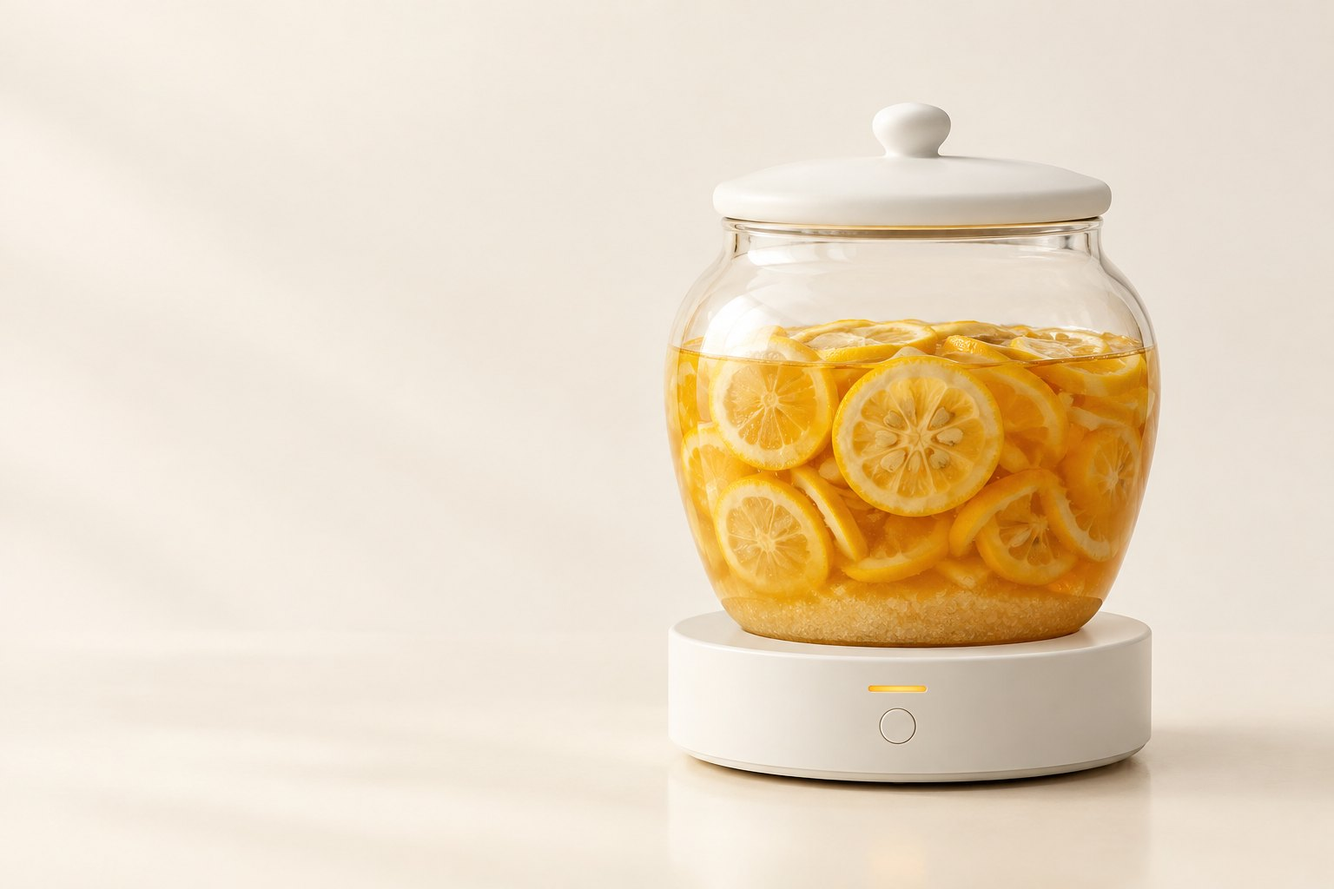
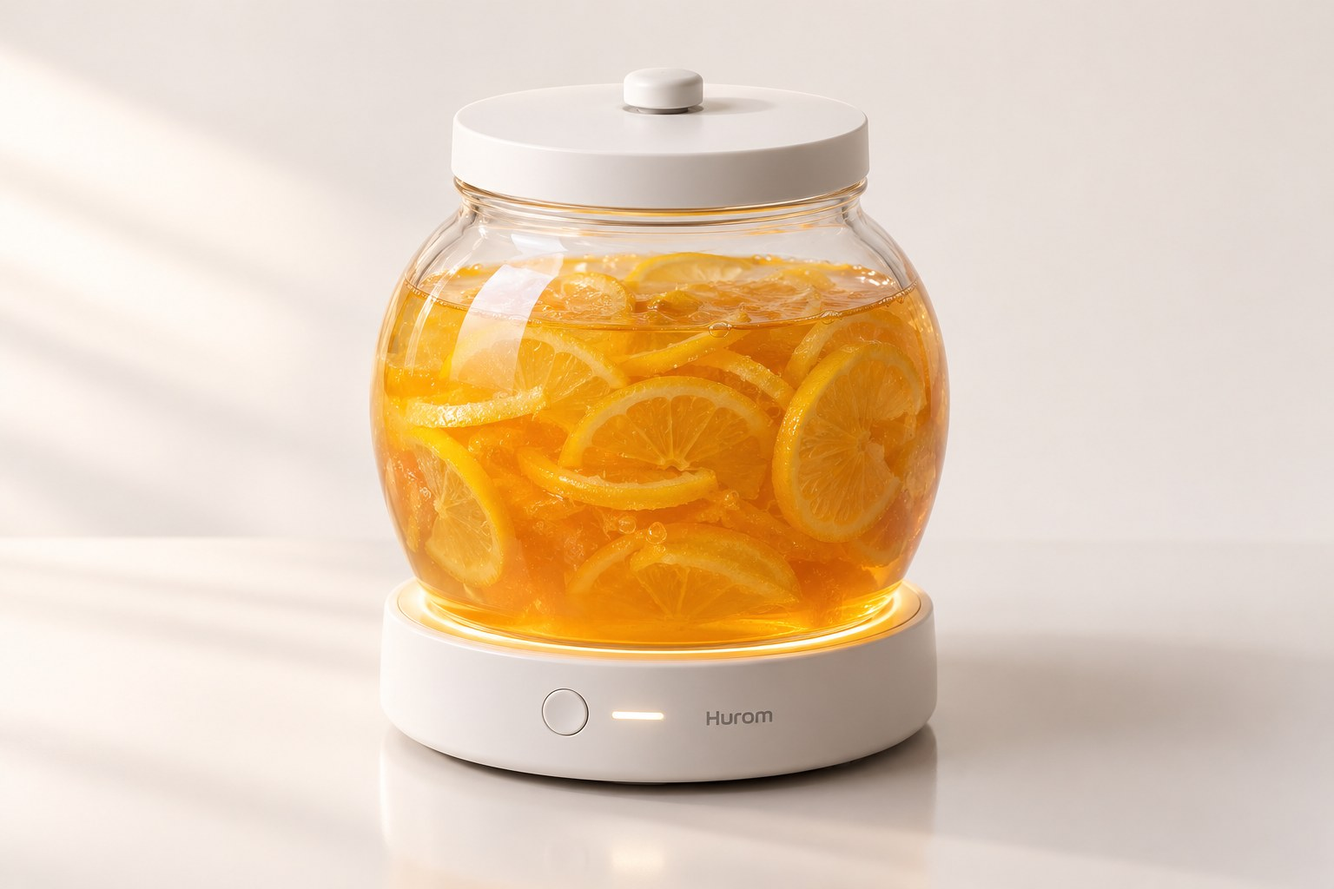
제품 이미지 프롬프트 페이지(prompts.html, 10컷 · 복사 버튼 · 점검표) · GPT 완성 이미지 3장(대표 · 쓰는 장면 · 라인업)으로 교체

diff --git a/prompts.html b/prompts.html
@@ -1,0 +1,165 @@
+<!doctype html><html lang="ko"><head><meta charset="utf-8"><meta name="viewport" content="width=device-width,initial-scale=1">
+<title>과일청 메이커 · 제품 이미지 프롬프트</title>
+<link rel="stylesheet" href="https://cdn.jsdelivr.net/gh/orioncactus/pretendard@v1.3.9/dist/web/static/pretendard.min.css">
+<style>
+:root{--bg:#f7f5f0;--card:#fff;--ink:#1c1b19;--sub:#6b6862;--line:#e6e2d9;--acc:#e8781a}
+*{box-sizing:border-box}body{margin:0;background:var(--bg);color:var(--ink);font-family:Pretendard,system-ui,sans-serif;-webkit-font-smoothing:antialiased}
+.wrap{max-width:1240px;margin:0 auto;padding:72px 32px 120px}
+.eyebrow{font-size:13px;font-weight:700;color:var(--acc);letter-spacing:.04em}
+h1{font-size:44px;line-height:1.2;margin:12px 0 16px;letter-spacing:-.02em}
+.lead{font-size:18px;color:var(--sub);line-height:1.6;max-width:760px;margin:0}
+.steps{display:grid;grid-template-columns:repeat(4,1fr);gap:16px;margin:40px 0 56px}
+.step{background:var(--card);border:1px solid var(--line);border-radius:16px;padding:20px}
+.step b{display:block;font-size:13px;color:var(--acc);margin-bottom:6px}.step p{margin:0;font-size:15px;line-height:1.5}
+h2{font-size:24px;margin:0 0 20px;letter-spacing:-.01em}
+.grid{display:grid;grid-template-columns:repeat(2,1fr);gap:24px}
+.card{background:var(--card);border:1px solid var(--line);border-radius:20px;overflow:hidden;display:flex;flex-direction:column;transition:opacity .5s,transform .5s,box-shadow .25s;opacity:0;transform:translateY(16px)}
+.card.in{opacity:1;transform:none}.card.in:hover{box-shadow:0 12px 32px rgba(0,0,0,.08);transform:translateY(-3px)}
+.thumb{position:relative;aspect-ratio:3/2;background:#efebe3}.thumb img{width:100%;height:100%;object-fit:cover;display:block}
+.empty{height:100%;display:flex;align-items:center;justify-content:center;color:#a39f96;font-size:14px;background:repeating-linear-gradient(135deg,#efebe3 0 12px,#ebe6dc 12px 24px)}
+.badge{position:absolute;left:14px;top:14px;background:rgba(255,255,255,.92);border:1px solid var(--line);border-radius:999px;font-size:12px;font-weight:700;padding:5px 10px}
+.body{padding:22px 24px 24px;display:flex;flex-direction:column;gap:10px;flex:1}
+.meta{display:flex;gap:8px;flex-wrap:wrap;font-size:12px;color:var(--sub)}.meta span{border:1px solid var(--line);border-radius:999px;padding:3px 9px}.meta .no{background:var(--ink);color:#fff;border-color:var(--ink);font-weight:700}
+h3{margin:4px 0 0;font-size:20px}.ko{margin:0;font-size:14px;line-height:1.6;color:var(--sub)}
+details{font-size:13px}summary{cursor:pointer;color:var(--ink);font-weight:600}
+pre{white-space:pre-wrap;word-break:break-word;background:#faf8f4;border:1px solid var(--line);border-radius:12px;padding:14px;font:12.5px/1.6 ui-monospace,Consolas,monospace}
+.copy{margin-top:auto;align-self:flex-start;border:0;background:var(--ink);color:#fff;font:600 14px Pretendard,sans-serif;padding:11px 18px;border-radius:12px;cursor:pointer;transition:background .2s}
+.copy:hover{background:#000}.copy.done{background:#2f8f5b}
+.box{background:var(--card);border:1px solid var(--line);border-radius:20px;padding:28px;margin-top:24px}
+.box ul{margin:0;padding-left:20px;line-height:1.8;font-size:15px}
+.two{display:grid;grid-template-columns:1fr 1fr;gap:24px;margin-top:32px}.two .box{margin-top:0}
+@media(max-width:900px){.grid,.two{grid-template-columns:1fr}.steps{grid-template-columns:1fr 1fr}h1{font-size:32px}.wrap{padding:48px 18px 80px}}
+</style></head><body><div class="wrap">
+<div class="eyebrow">HUROM · 과일청 메이커</div>
+<h1>제품 이미지 프롬프트 10컷</h1>
+<p class="lead">GPT 이미지에 그대로 붙여 넣는 완성 프롬프트입니다. 모든 컷에 같은 제품 묘사가 들어 있어서 여러 장을 만들어도 통 모양 · 받침 · 빛 링이 똑같이 나옵니다.</p>
+<div class="steps">
+<div class="step"><b>1</b><p>컷을 고르고 「프롬프트 복사」</p></div>
+<div class="step"><b>2</b><p>GPT 이미지에 붙여 넣기(비율은 프롬프트에 들어 있음)</p></div>
+<div class="step"><b>3</b><p>아래 「확인할 것」으로 모양 점검, 틀리면 한 줄 덧붙여 다시</p></div>
+<div class="step"><b>4</b><p>방에 올리면 피그마 · 페이지에 바로 넣음</p></div>
+</div>
+<h2>컷 목록</h2>
+<div class="grid"><article class="card" id="hero">
+<div class="thumb"><img src="img/real-hero.jpg" alt="대표 컷 · 유자청 지금 이미지" loading="lazy"><span class="badge">완성 · GPT</span></div>
+<div class="body"><div class="meta"><span class="no">01</span><span>비율 3:2</span><span>기획서 첫 화면</span></div>
+<h3>대표 컷 · 유자청</h3><p class="ko">스튜디오 대표 컷. 유자 슬라이스와 설탕이 든 주황빛 유자청, 빛 링은 따뜻한 주황.</p>
+<details><summary>전체 프롬프트 보기</summary><pre>A countertop fruit-syrup maker. A clear borosilicate glass jar shaped like a small Korean onggi pot — rounded belly 16cm wide, narrower mouth 12cm, 16cm tall, 2-liter capacity, smooth thick glass, no holes, no handles, no tap. White matte flat lid with a small round valve knob in the center. The jar sits on a low round base, 19cm diameter and 5cm tall, white matte finish, soft rounded edges. A thin glowing light ring between the jar and the base lights the syrup from below. On the base front: one small round button and one short horizontal light line, plus a tiny grey &quot;Hurom&quot; logo. No wood, no screens, no visible cables. Premium Korean home appliance, minimal. Photorealistic product photography, accurate glass refraction and caustics, soft natural shadows.
+
+Scene: Studio hero shot. The jar is filled with yuzu syrup: thin yuzu slices and sugar in golden-orange syrup. The light ring glows warm amber. Clean warm-white seamless background, product centered, slight 3/4 angle from above, soft daylight from the left, subtle reflection on a white surface.
+
+Aspect ratio 3:2. Avoid: cylinder jar, straight-sided jar, tap or spout, handle, wooden parts, LCD screen, touch panel, many buttons, visible power cord, cartoon, 3D render look, plastic jar, text overlay, watermark, extra logos.</pre></details>
+<button class="copy" data-k="hero">프롬프트 복사</button></div></article>
+<article class="card" id="use">
+<div class="thumb"><img src="img/real-use.jpg" alt="쓰는 장면 · 매실 담그는 날 지금 이미지" loading="lazy"><span class="badge">완성 · GPT</span></div>
+<div class="body"><div class="meta"><span class="no">02</span><span>비율 3:2</span><span>「처음 한 번 써 보기」 칸</span></div>
+<h3>쓰는 장면 · 매실 담그는 날</h3><p class="ko">아침 아파트 주방. 매실이 반쯤 담긴 통에 손이 설탕을 붓는 장면(얼굴 없음).</p>
+<details><summary>전체 프롬프트 보기</summary><pre>A countertop fruit-syrup maker. A clear borosilicate glass jar shaped like a small Korean onggi pot — rounded belly 16cm wide, narrower mouth 12cm, 16cm tall, 2-liter capacity, smooth thick glass, no holes, no handles, no tap. White matte flat lid with a small round valve knob in the center. The jar sits on a low round base, 19cm diameter and 5cm tall, white matte finish, soft rounded edges. A thin glowing light ring between the jar and the base lights the syrup from below. On the base front: one small round button and one short horizontal light line, plus a tiny grey &quot;Hurom&quot; logo. No wood, no screens, no visible cables. Premium Korean home appliance, minimal. Photorealistic product photography, accurate glass refraction and caustics, soft natural shadows.
+
+Scene: Lifestyle scene on a bright Korean apartment kitchen counter in the morning. A woman&#x27;s hands (face not shown) pour white sugar into the jar, which is half full of green maesil (Korean green plums). The light ring glows soft orange. Beside it: a bowl of maesil, a cutting board, a glass of water. Natural window light, shallow depth of field, calm and warm mood.
+
+Aspect ratio 3:2. Avoid: cylinder jar, straight-sided jar, tap or spout, handle, wooden parts, LCD screen, touch panel, many buttons, visible power cord, cartoon, 3D render look, plastic jar, text overlay, watermark, extra logos.</pre></details>
+<button class="copy" data-k="use">프롬프트 복사</button></div></article>
+<article class="card" id="lineup">
+<div class="thumb"><img src="img/real-lineup.jpg" alt="라인업 · 청 4색 지금 이미지" loading="lazy"><span class="badge">완성 · GPT</span></div>
+<div class="body"><div class="meta"><span class="no">03</span><span>비율 16:9</span><span>색 · 재질 칸</span></div>
+<h3>라인업 · 청 4색</h3><p class="ko">같은 제품 4대를 나란히: 유자 · 매실 · 오미자 · 딸기. 빛 링 색을 청 색에 맞춤. 항아리 곡선으로 다시 나온 판입니다.</p>
+<details><summary>전체 프롬프트 보기</summary><pre>A countertop fruit-syrup maker. A clear borosilicate glass jar shaped like a small Korean onggi pot — rounded belly 16cm wide, narrower mouth 12cm, 16cm tall, 2-liter capacity, smooth thick glass, no holes, no handles, no tap. White matte flat lid with a small round valve knob in the center. The jar sits on a low round base, 19cm diameter and 5cm tall, white matte finish, soft rounded edges. A thin glowing light ring between the jar and the base lights the syrup from below. On the base front: one small round button and one short horizontal light line, plus a tiny grey &quot;Hurom&quot; logo. No wood, no screens, no visible cables. Premium Korean home appliance, minimal. Photorealistic product photography, accurate glass refraction and caustics, soft natural shadows.
+
+Scene: Four identical units in a row on a long white counter. Every jar has the same rounded onggi belly — not a straight cylinder. From left: yuzu syrup (golden orange), maesil syrup (yellow-green), omija syrup (deep red), strawberry syrup (pink-red). Each light ring glows the same color as its syrup. Front view, evenly spaced, soft studio light, warm-white background.
+
+Aspect ratio 16:9. Avoid: cylinder jar, straight-sided jar, tap or spout, handle, wooden parts, LCD screen, touch panel, many buttons, visible power cord, cartoon, 3D render look, plastic jar, text overlay, watermark, extra logos.</pre></details>
+<button class="copy" data-k="lineup">프롬프트 복사</button></div></article>
+<article class="card" id="night">
+<div class="thumb"><div class="empty">새로 만들 컷</div><span class="badge">새 컷</span></div>
+<div class="body"><div class="meta"><span class="no">04</span><span>비율 3:2</span><span>「쓰는 장면」 둘째 컷</span></div>
+<h3>밤 · 식혀 두기</h3><p class="ko">불 끈 저녁 주방. 오미자청이 아래 빛 링으로 붉게 빛나는 컷.</p>
+<details><summary>전체 프롬프트 보기</summary><pre>A countertop fruit-syrup maker. A clear borosilicate glass jar shaped like a small Korean onggi pot — rounded belly 16cm wide, narrower mouth 12cm, 16cm tall, 2-liter capacity, smooth thick glass, no holes, no handles, no tap. White matte flat lid with a small round valve knob in the center. The jar sits on a low round base, 19cm diameter and 5cm tall, white matte finish, soft rounded edges. A thin glowing light ring between the jar and the base lights the syrup from below. On the base front: one small round button and one short horizontal light line, plus a tiny grey &quot;Hurom&quot; logo. No wood, no screens, no visible cables. Premium Korean home appliance, minimal. Photorealistic product photography, accurate glass refraction and caustics, soft natural shadows.
+
+Scene: Evening kitchen with lights dimmed. The jar of omija syrup glows deep red from the light ring below, casting soft red light on the white counter. Calm premium mood, the product is the main light source besides a faint window glow.
+
+Aspect ratio 3:2. Avoid: cylinder jar, straight-sided jar, tap or spout, handle, wooden parts, LCD screen, touch panel, many buttons, visible power cord, cartoon, 3D render look, plastic jar, text overlay, watermark, extra logos.</pre></details>
+<button class="copy" data-k="night">프롬프트 복사</button></div></article>
+<article class="card" id="sugar">
+<div class="thumb"><div class="empty">새로 만들 컷</div><span class="badge">새 컷</span></div>
+<div class="body"><div class="meta"><span class="no">05</span><span>비율 4:5</span><span>「왜 이 기계가 필요한가」 칸</span></div>
+<h3>설탕 녹는 순간 · 근접</h3><p class="ko">통 바닥 근접. 젓개 주위로 안 녹은 설탕이 소용돌이치는 순간 — 「저어 준다」를 보여 주는 컷.</p>
+<details><summary>전체 프롬프트 보기</summary><pre>A countertop fruit-syrup maker. A clear borosilicate glass jar shaped like a small Korean onggi pot — rounded belly 16cm wide, narrower mouth 12cm, 16cm tall, 2-liter capacity, smooth thick glass, no holes, no handles, no tap. White matte flat lid with a small round valve knob in the center. The jar sits on a low round base, 19cm diameter and 5cm tall, white matte finish, soft rounded edges. A thin glowing light ring between the jar and the base lights the syrup from below. On the base front: one small round button and one short horizontal light line, plus a tiny grey &quot;Hurom&quot; logo. No wood, no screens, no visible cables. Premium Korean home appliance, minimal. Photorealistic product photography, accurate glass refraction and caustics, soft natural shadows.
+
+Scene: Macro close-up through the glass at the bottom of the jar. Undissolved white sugar crystals swirl slowly in golden syrup around a small white three-blade stirrer at the center of the glass bottom. The amber light ring glows from below. Fine sugar grains and tiny bubbles are sharp, background softly blurred.
+
+Aspect ratio 4:5. Avoid: cylinder jar, straight-sided jar, tap or spout, handle, wooden parts, LCD screen, touch panel, many buttons, visible power cord, cartoon, 3D render look, plastic jar, text overlay, watermark, extra logos.</pre></details>
+<button class="copy" data-k="sugar">프롬프트 복사</button></div></article>
+<article class="card" id="pour">
+<div class="thumb"><div class="empty">새로 만들 컷</div><span class="badge">새 컷</span></div>
+<div class="body"><div class="meta"><span class="no">06</span><span>비율 3:2</span><span>마지막 칸 · 고객이 얻는 것</span></div>
+<h3>완성 · 유자차 한 잔</h3><p class="ko">완성된 유자청을 떠서 유자차를 만드는 겨울 오후. 빛 링은 흰색(완료).</p>
+<details><summary>전체 프롬프트 보기</summary><pre>A countertop fruit-syrup maker. A clear borosilicate glass jar shaped like a small Korean onggi pot — rounded belly 16cm wide, narrower mouth 12cm, 16cm tall, 2-liter capacity, smooth thick glass, no holes, no handles, no tap. White matte flat lid with a small round valve knob in the center. The jar sits on a low round base, 19cm diameter and 5cm tall, white matte finish, soft rounded edges. A thin glowing light ring between the jar and the base lights the syrup from below. On the base front: one small round button and one short horizontal light line, plus a tiny grey &quot;Hurom&quot; logo. No wood, no screens, no visible cables. Premium Korean home appliance, minimal. Photorealistic product photography, accurate glass refraction and caustics, soft natural shadows.
+
+Scene: The finished yuzu syrup is spooned from the open jar into a clear glass mug of hot water, making yuzu tea. Lid resting beside the jar. Cozy winter afternoon on a light kitchen table, steam rising, warm sunlight. The light ring glows soft white (done).
+
+Aspect ratio 3:2. Avoid: cylinder jar, straight-sided jar, tap or spout, handle, wooden parts, LCD screen, touch panel, many buttons, visible power cord, cartoon, 3D render look, plastic jar, text overlay, watermark, extra logos.</pre></details>
+<button class="copy" data-k="pour">프롬프트 복사</button></div></article>
+<article class="card" id="lid">
+<div class="thumb"><div class="empty">새로 만들 컷</div><span class="badge">새 컷</span></div>
+<div class="body"><div class="meta"><span class="no">07</span><span>비율 1:1</span><span>구조 칸 · 가스 빼기</span></div>
+<h3>뚜껑 밸브 · 디테일</h3><p class="ko">뚜껑 가운데 한 방향 가스 밸브와 실리콘 패킹 근접.</p>
+<details><summary>전체 프롬프트 보기</summary><pre>A countertop fruit-syrup maker. A clear borosilicate glass jar shaped like a small Korean onggi pot — rounded belly 16cm wide, narrower mouth 12cm, 16cm tall, 2-liter capacity, smooth thick glass, no holes, no handles, no tap. White matte flat lid with a small round valve knob in the center. The jar sits on a low round base, 19cm diameter and 5cm tall, white matte finish, soft rounded edges. A thin glowing light ring between the jar and the base lights the syrup from below. On the base front: one small round button and one short horizontal light line, plus a tiny grey &quot;Hurom&quot; logo. No wood, no screens, no visible cables. Premium Korean home appliance, minimal. Photorealistic product photography, accurate glass refraction and caustics, soft natural shadows.
+
+Scene: Detail close-up of the white matte lid from a high angle: the small round one-way valve knob in the center and the food-grade silicone gasket visible at the lid edge. Glass rim of the jar and golden syrup slightly visible below. Soft studio light, minimal white background.
+
+Aspect ratio 1:1. Avoid: cylinder jar, straight-sided jar, tap or spout, handle, wooden parts, LCD screen, touch panel, many buttons, visible power cord, cartoon, 3D render look, plastic jar, text overlay, watermark, extra logos.</pre></details>
+<button class="copy" data-k="lid">프롬프트 복사</button></div></article>
+<article class="card" id="base">
+<div class="thumb"><div class="empty">새로 만들 컷</div><span class="badge">새 컷</span></div>
+<div class="body"><div class="meta"><span class="no">08</span><span>비율 16:9</span><span>조작 칸</span></div>
+<h3>받침 앞면 · 버튼과 빛 줄</h3><p class="ko">받침 앞 버튼 1개 · 빛 줄 · 로고 근접. 「버튼 하나로 끝」을 보여 주는 컷.</p>
+<details><summary>전체 프롬프트 보기</summary><pre>A countertop fruit-syrup maker. A clear borosilicate glass jar shaped like a small Korean onggi pot — rounded belly 16cm wide, narrower mouth 12cm, 16cm tall, 2-liter capacity, smooth thick glass, no holes, no handles, no tap. White matte flat lid with a small round valve knob in the center. The jar sits on a low round base, 19cm diameter and 5cm tall, white matte finish, soft rounded edges. A thin glowing light ring between the jar and the base lights the syrup from below. On the base front: one small round button and one short horizontal light line, plus a tiny grey &quot;Hurom&quot; logo. No wood, no screens, no visible cables. Premium Korean home appliance, minimal. Photorealistic product photography, accurate glass refraction and caustics, soft natural shadows.
+
+Scene: Low-angle close-up of the white matte base front: one small round button, one short horizontal light line glowing orange, and a tiny grey Hurom logo. The bottom of the glass jar with golden syrup and the glowing light ring above it. Shallow depth of field, clean white counter.
+
+Aspect ratio 16:9. Avoid: cylinder jar, straight-sided jar, tap or spout, handle, wooden parts, LCD screen, touch panel, many buttons, visible power cord, cartoon, 3D render look, plastic jar, text overlay, watermark, extra logos.</pre></details>
+<button class="copy" data-k="base">프롬프트 복사</button></div></article>
+<article class="card" id="parts">
+<div class="thumb"><div class="empty">새로 만들 컷</div><span class="badge">새 컷</span></div>
+<div class="body"><div class="meta"><span class="no">09</span><span>비율 3:2</span><span>「씻는 것은 셋」 칸</span></div>
+<h3>씻는 부품 셋</h3><p class="ko">갓 씻은 유리 통 · 뚜껑 · 젓개 셋을 위에서 본 컷. 받침은 빠짐.</p>
+<details><summary>전체 프롬프트 보기</summary><pre>A countertop fruit-syrup maker. A clear borosilicate glass jar shaped like a small Korean onggi pot — rounded belly 16cm wide, narrower mouth 12cm, 16cm tall, 2-liter capacity, smooth thick glass, no holes, no handles, no tap. White matte flat lid with a small round valve knob in the center. The jar sits on a low round base, 19cm diameter and 5cm tall, white matte finish, soft rounded edges. A thin glowing light ring between the jar and the base lights the syrup from below. On the base front: one small round button and one short horizontal light line, plus a tiny grey &quot;Hurom&quot; logo. No wood, no screens, no visible cables. Premium Korean home appliance, minimal. Photorealistic product photography, accurate glass refraction and caustics, soft natural shadows.
+
+Scene: Flat lay on a light grey stone counter, top-down view: the empty glass onggi jar lying on its side, the white lid, and the small white three-blade stirrer, all freshly washed with water droplets, next to a dish rack and a sponge. The white base is not in the picture. Clean, bright, organized.
+
+Aspect ratio 3:2. Avoid: cylinder jar, straight-sided jar, tap or spout, handle, wooden parts, LCD screen, touch panel, many buttons, visible power cord, cartoon, 3D render look, plastic jar, text overlay, watermark, extra logos.</pre></details>
+<button class="copy" data-k="parts">프롬프트 복사</button></div></article>
+<article class="card" id="cutaway">
+<div class="thumb"><div class="empty">새로 만들 컷</div><span class="badge">새 컷</span></div>
+<div class="body"><div class="meta"><span class="no">10</span><span>비율 3:2</span><span>구조 칸 · 기술 설명</span></div>
+<h3>속 구조 · 반 잘라 보기</h3><p class="ko">제품을 세로로 반 잘라 속을 보여 주는 컷: 유리 핀 · 젓개 · 자석 원판 · 모터 · 알루미늄 컵 · 펠티어 · 방열판 · 팬 · 보드. 글자 없이.</p>
+<details><summary>전체 프롬프트 보기</summary><pre>A countertop fruit-syrup maker. A clear borosilicate glass jar shaped like a small Korean onggi pot — rounded belly 16cm wide, narrower mouth 12cm, 16cm tall, 2-liter capacity, smooth thick glass, no holes, no handles, no tap. White matte flat lid with a small round valve knob in the center. The jar sits on a low round base, 19cm diameter and 5cm tall, white matte finish, soft rounded edges. A thin glowing light ring between the jar and the base lights the syrup from below. On the base front: one small round button and one short horizontal light line, plus a tiny grey &quot;Hurom&quot; logo. No wood, no screens, no visible cables. Premium Korean home appliance, minimal. Photorealistic product photography, accurate glass refraction and caustics, soft natural shadows.
+
+Scene: Technical cutaway visualization, photorealistic style: the product cut in half vertically on a white background. Show the glass jar with syrup, the small stirrer on a glass pin at the bottom center, under the glass a magnetic drive disc with a thin motor, an aluminum cup around the jar bottom, a thermoelectric (Peltier) module with a heat sink and a small fan at the back of the base, and the control board. No text labels. Premium engineering visualization, soft light.
+
+Aspect ratio 3:2. Avoid: cylinder jar, straight-sided jar, tap or spout, handle, wooden parts, LCD screen, touch panel, many buttons, visible power cord, cartoon, 3D render look, plastic jar, text overlay, watermark, extra logos.</pre></details>
+<button class="copy" data-k="cutaway">프롬프트 복사</button></div></article></div>
+<div class="two">
+<div class="box"><h2>확인할 것</h2><ul>
+<li>통이 <b>배가 볼록한 항아리</b>인가 — 원통이면 다시</li>
+<li>받침이 <b>흰 무광 · 낮고 둥근</b> 모양인가 — 나무 · 금속이면 다시</li>
+<li>버튼은 <b>1개</b>, 화면 · 터치판이 없는가</li>
+<li>통에 <b>꼭지 · 손잡이 · 구멍이 없는가</b></li>
+<li>전선이 보이지 않는가</li>
+<li>로고는 작은 회색 「Hurom」 하나뿐인가</li></ul></div>
+<div class="box"><h2>틀렸을 때 덧붙일 한 줄</h2><ul>
+<li>원통으로 나옴 → <i>The jar must have a rounded belly like an onggi pot, not a straight cylinder.</i></li>
+<li>버튼이 많음 → <i>Only one button on the base. No display.</i></li>
+<li>나무가 들어감 → <i>No wood anywhere. Base is white matte plastic.</i></li>
+<li>꼭지가 생김 → <i>No tap, no spout, no handle on the jar.</i></li>
+<li>3D처럼 보임 → <i>Real photograph, shot on a full-frame camera, 50mm lens.</i></li></ul></div>
+</div>
+<div class="box"><h2>공통 제품 묘사 · 피할 것</h2><pre>A countertop fruit-syrup maker. A clear borosilicate glass jar shaped like a small Korean onggi pot — rounded belly 16cm wide, narrower mouth 12cm, 16cm tall, 2-liter capacity, smooth thick glass, no holes, no handles, no tap. White matte flat lid with a small round valve knob in the center. The jar sits on a low round base, 19cm diameter and 5cm tall, white matte finish, soft rounded edges. A thin glowing light ring between the jar and the base lights the syrup from below. On the base front: one small round button and one short horizontal light line, plus a tiny grey &quot;Hurom&quot; logo. No wood, no screens, no visible cables. Premium Korean home appliance, minimal. Photorealistic product photography, accurate glass refraction and caustics, soft natural shadows.</pre><pre>Avoid: cylinder jar, straight-sided jar, tap or spout, handle, wooden parts, LCD screen, touch panel, many buttons, visible power cord, cartoon, 3D render look, plastic jar, text overlay, watermark, extra logos</pre></div>
+</div>
+<script>
+const PROMPTS={"hero": "A countertop fruit-syrup maker. A clear borosilicate glass jar shaped like a small Korean onggi pot — rounded belly 16cm wide, narrower mouth 12cm, 16cm tall, 2-liter capacity, smooth thick glass, no holes, no handles, no tap. White matte flat lid with a small round valve knob in the center. The jar sits on a low round base, 19cm diameter and 5cm tall, white matte finish, soft rounded edges. A thin glowing light ring between the jar and the base lights the syrup from below. On the base front: one small round button and one short horizontal light line, plus a tiny grey \"Hurom\" logo. No wood, no screens, no visible cables. Premium Korean home appliance, minimal. Photorealistic product photography, accurate glass refraction and caustics, soft natural shadows.\n\nScene: Studio hero shot. The jar is filled with yuzu syrup: thin yuzu slices and sugar in golden-orange syrup. The light ring glows warm amber. Clean warm-white seamless background, product centered, slight 3/4 angle from above, soft daylight from the left, subtle reflection on a white surface.\n\nAspect ratio 3:2. Avoid: cylinder jar, straight-sided jar, tap or spout, handle, wooden parts, LCD screen, touch panel, many buttons, visible power cord, cartoon, 3D render look, plastic jar, text overlay, watermark, extra logos.", "use": "A countertop fruit-syrup maker. A clear borosilicate glass jar shaped like a small Korean onggi pot — rounded belly 16cm wide, narrower mouth 12cm, 16cm tall, 2-liter capacity, smooth thick glass, no holes, no handles, no tap. White matte flat lid with a small round valve knob in the center. The jar sits on a low round base, 19cm diameter and 5cm tall, white matte finish, soft rounded edges. A thin glowing light ring between the jar and the base lights the syrup from below. On the base front: one small round button and one short horizontal light line, plus a tiny grey \"Hurom\" logo. No wood, no screens, no visible cables. Premium Korean home appliance, minimal. Photorealistic product photography, accurate glass refraction and caustics, soft natural shadows.\n\nScene: Lifestyle scene on a bright Korean apartment kitchen counter in the morning. A woman's hands (face not shown) pour white sugar into the jar, which is half full of green maesil (Korean green plums). The light ring glows soft orange. Beside it: a bowl of maesil, a cutting board, a glass of water. Natural window light, shallow depth of field, calm and warm mood.\n\nAspect ratio 3:2. Avoid: cylinder jar, straight-sided jar, tap or spout, handle, wooden parts, LCD screen, touch panel, many buttons, visible power cord, cartoon, 3D render look, plastic jar, text overlay, watermark, extra logos.", "lineup": "A countertop fruit-syrup maker. A clear borosilicate glass jar shaped like a small Korean onggi pot — rounded belly 16cm wide, narrower mouth 12cm, 16cm tall, 2-liter capacity, smooth thick glass, no holes, no handles, no tap. White matte flat lid with a small round valve knob in the center. The jar sits on a low round base, 19cm diameter and 5cm tall, white matte finish, soft rounded edges. A thin glowing light ring between the jar and the base lights the syrup from below. On the base front: one small round button and one short horizontal light line, plus a tiny grey \"Hurom\" logo. No wood, no screens, no visible cables. Premium Korean home appliance, minimal. Photorealistic product photography, accurate glass refraction and caustics, soft natural shadows.\n\nScene: Four identical units in a row on a long white counter. Every jar has the same rounded onggi belly — not a straight cylinder. From left: yuzu syrup (golden orange), maesil syrup (yellow-green), omija syrup (deep red), strawberry syrup (pink-red). Each light ring glows the same color as its syrup. Front view, evenly spaced, soft studio light, warm-white background.\n\nAspect ratio 16:9. Avoid: cylinder jar, straight-sided jar, tap or spout, handle, wooden parts, LCD screen, touch panel, many buttons, visible power cord, cartoon, 3D render look, plastic jar, text overlay, watermark, extra logos.", "night": "A countertop fruit-syrup maker. A clear borosilicate glass jar shaped like a small Korean onggi pot — rounded belly 16cm wide, narrower mouth 12cm, 16cm tall, 2-liter capacity, smooth thick glass, no holes, no handles, no tap. White matte flat lid with a small round valve knob in the center. The jar sits on a low round base, 19cm diameter and 5cm tall, white matte finish, soft rounded edges. A thin glowing light ring between the jar and the base lights the syrup from below. On the base front: one small round button and one short horizontal light line, plus a tiny grey \"Hurom\" logo. No wood, no screens, no visible cables. Premium Korean home appliance, minimal. Photorealistic product photography, accurate glass refraction and caustics, soft natural shadows.\n\nScene: Evening kitchen with lights dimmed. The jar of omija syrup glows deep red from the light ring below, casting soft red light on the white counter. Calm premium mood, the product is the main light source besides a faint window glow.\n\nAspect ratio 3:2. Avoid: cylinder jar, straight-sided jar, tap or spout, handle, wooden parts, LCD screen, touch panel, many buttons, visible power cord, cartoon, 3D render look, plastic jar, text overlay, watermark, extra logos.", "sugar": "A countertop fruit-syrup maker. A clear borosilicate glass jar shaped like a small Korean onggi pot — rounded belly 16cm wide, narrower mouth 12cm, 16cm tall, 2-liter capacity, smooth thick glass, no holes, no handles, no tap. White matte flat lid with a small round valve knob in the center. The jar sits on a low round base, 19cm diameter and 5cm tall, white matte finish, soft rounded edges. A thin glowing light ring between the jar and the base lights the syrup from below. On the base front: one small round button and one short horizontal light line, plus a tiny grey \"Hurom\" logo. No wood, no screens, no visible cables. Premium Korean home appliance, minimal. Photorealistic product photography, accurate glass refraction and caustics, soft natural shadows.\n\nScene: Macro close-up through the glass at the bottom of the jar. Undissolved white sugar crystals swirl slowly in golden syrup around a small white three-blade stirrer at the center of the glass bottom. The amber light ring glows from below. Fine sugar grains and tiny bubbles are sharp, background softly blurred.\n\nAspect ratio 4:5. Avoid: cylinder jar, straight-sided jar, tap or spout, handle, wooden parts, LCD screen, touch panel, many buttons, visible power cord, cartoon, 3D render look, plastic jar, text overlay, watermark, extra logos.", "pour": "A countertop fruit-syrup maker. A clear borosilicate glass jar shaped like a small Korean onggi pot — rounded belly 16cm wide, narrower mouth 12cm, 16cm tall, 2-liter capacity, smooth thick glass, no holes, no handles, no tap. White matte flat lid with a small round valve knob in the center. The jar sits on a low round base, 19cm diameter and 5cm tall, white matte finish, soft rounded edges. A thin glowing light ring between the jar and the base lights the syrup from below. On the base front: one small round button and one short horizontal light line, plus a tiny grey \"Hurom\" logo. No wood, no screens, no visible cables. Premium Korean home appliance, minimal. Photorealistic product photography, accurate glass refraction and caustics, soft natural shadows.\n\nScene: The finished yuzu syrup is spooned from the open jar into a clear glass mug of hot water, making yuzu tea. Lid resting beside the jar. Cozy winter afternoon on a light kitchen table, steam rising, warm sunlight. The light ring glows soft white (done).\n\nAspect ratio 3:2. Avoid: cylinder jar, straight-sided jar, tap or spout, handle, wooden parts, LCD screen, touch panel, many buttons, visible power cord, cartoon, 3D render look, plastic jar, text overlay, watermark, extra logos.", "lid": "A countertop fruit-syrup maker. A clear borosilicate glass jar shaped like a small Korean onggi pot — rounded belly 16cm wide, narrower mouth 12cm, 16cm tall, 2-liter capacity, smooth thick glass, no holes, no handles, no tap. White matte flat lid with a small round valve knob in the center. The jar sits on a low round base, 19cm diameter and 5cm tall, white matte finish, soft rounded edges. A thin glowing light ring between the jar and the base lights the syrup from below. On the base front: one small round button and one short horizontal light line, plus a tiny grey \"Hurom\" logo. No wood, no screens, no visible cables. Premium Korean home appliance, minimal. Photorealistic product photography, accurate glass refraction and caustics, soft natural shadows.\n\nScene: Detail close-up of the white matte lid from a high angle: the small round one-way valve knob in the center and the food-grade silicone gasket visible at the lid edge. Glass rim of the jar and golden syrup slightly visible below. Soft studio light, minimal white background.\n\nAspect ratio 1:1. Avoid: cylinder jar, straight-sided jar, tap or spout, handle, wooden parts, LCD screen, touch panel, many buttons, visible power cord, cartoon, 3D render look, plastic jar, text overlay, watermark, extra logos.", "base": "A countertop fruit-syrup maker. A clear borosilicate glass jar shaped like a small Korean onggi pot — rounded belly 16cm wide, narrower mouth 12cm, 16cm tall, 2-liter capacity, smooth thick glass, no holes, no handles, no tap. White matte flat lid with a small round valve knob in the center. The jar sits on a low round base, 19cm diameter and 5cm tall, white matte finish, soft rounded edges. A thin glowing light ring between the jar and the base lights the syrup from below. On the base front: one small round button and one short horizontal light line, plus a tiny grey \"Hurom\" logo. No wood, no screens, no visible cables. Premium Korean home appliance, minimal. Photorealistic product photography, accurate glass refraction and caustics, soft natural shadows.\n\nScene: Low-angle close-up of the white matte base front: one small round button, one short horizontal light line glowing orange, and a tiny grey Hurom logo. The bottom of the glass jar with golden syrup and the glowing light ring above it. Shallow depth of field, clean white counter.\n\nAspect ratio 16:9. Avoid: cylinder jar, straight-sided jar, tap or spout, handle, wooden parts, LCD screen, touch panel, many buttons, visible power cord, cartoon, 3D render look, plastic jar, text overlay, watermark, extra logos.", "parts": "A countertop fruit-syrup maker. A clear borosilicate glass jar shaped like a small Korean onggi pot — rounded belly 16cm wide, narrower mouth 12cm, 16cm tall, 2-liter capacity, smooth thick glass, no holes, no handles, no tap. White matte flat lid with a small round valve knob in the center. The jar sits on a low round base, 19cm diameter and 5cm tall, white matte finish, soft rounded edges. A thin glowing light ring between the jar and the base lights the syrup from below. On the base front: one small round button and one short horizontal light line, plus a tiny grey \"Hurom\" logo. No wood, no screens, no visible cables. Premium Korean home appliance, minimal. Photorealistic product photography, accurate glass refraction and caustics, soft natural shadows.\n\nScene: Flat lay on a light grey stone counter, top-down view: the empty glass onggi jar lying on its side, the white lid, and the small white three-blade stirrer, all freshly washed with water droplets, next to a dish rack and a sponge. The white base is not in the picture. Clean, bright, organized.\n\nAspect ratio 3:2. Avoid: cylinder jar, straight-sided jar, tap or spout, handle, wooden parts, LCD screen, touch panel, many buttons, visible power cord, cartoon, 3D render look, plastic jar, text overlay, watermark, extra logos.", "cutaway": "A countertop fruit-syrup maker. A clear borosilicate glass jar shaped like a small Korean onggi pot — rounded belly 16cm wide, narrower mouth 12cm, 16cm tall, 2-liter capacity, smooth thick glass, no holes, no handles, no tap. White matte flat lid with a small round valve knob in the center. The jar sits on a low round base, 19cm diameter and 5cm tall, white matte finish, soft rounded edges. A thin glowing light ring between the jar and the base lights the syrup from below. On the base front: one small round button and one short horizontal light line, plus a tiny grey \"Hurom\" logo. No wood, no screens, no visible cables. Premium Korean home appliance, minimal. Photorealistic product photography, accurate glass refraction and caustics, soft natural shadows.\n\nScene: Technical cutaway visualization, photorealistic style: the product cut in half vertically on a white background. Show the glass jar with syrup, the small stirrer on a glass pin at the bottom center, under the glass a magnetic drive disc with a thin motor, an aluminum cup around the jar bottom, a thermoelectric (Peltier) module with a heat sink and a small fan at the back of the base, and the control board. No text labels. Premium engineering visualization, soft light.\n\nAspect ratio 3:2. Avoid: cylinder jar, straight-sided jar, tap or spout, handle, wooden parts, LCD screen, touch panel, many buttons, visible power cord, cartoon, 3D render look, plastic jar, text overlay, watermark, extra logos."};
+document.querySelectorAll('.copy').forEach(b=>b.addEventListener('click',async()=>{const v=PROMPTS[b.dataset.k];try{await navigator.clipboard.writeText(v)}catch(e){const t=document.createElement('textarea');t.value=v;document.body.appendChild(t);t.select();document.execCommand('copy');t.remove()}b.textContent='복사됨';b.classList.add('done');setTimeout(()=>{b.textContent='프롬프트 복사';b.classList.remove('done')},1600)}));
+const io=new IntersectionObserver(es=>es.forEach(e=>{if(e.isIntersecting){e.target.classList.add('in');io.unobserve(e.target)}}),{threshold:.05});
+document.querySelectorAll('.card').forEach(c=>io.observe(c));
+</script></body></html>
